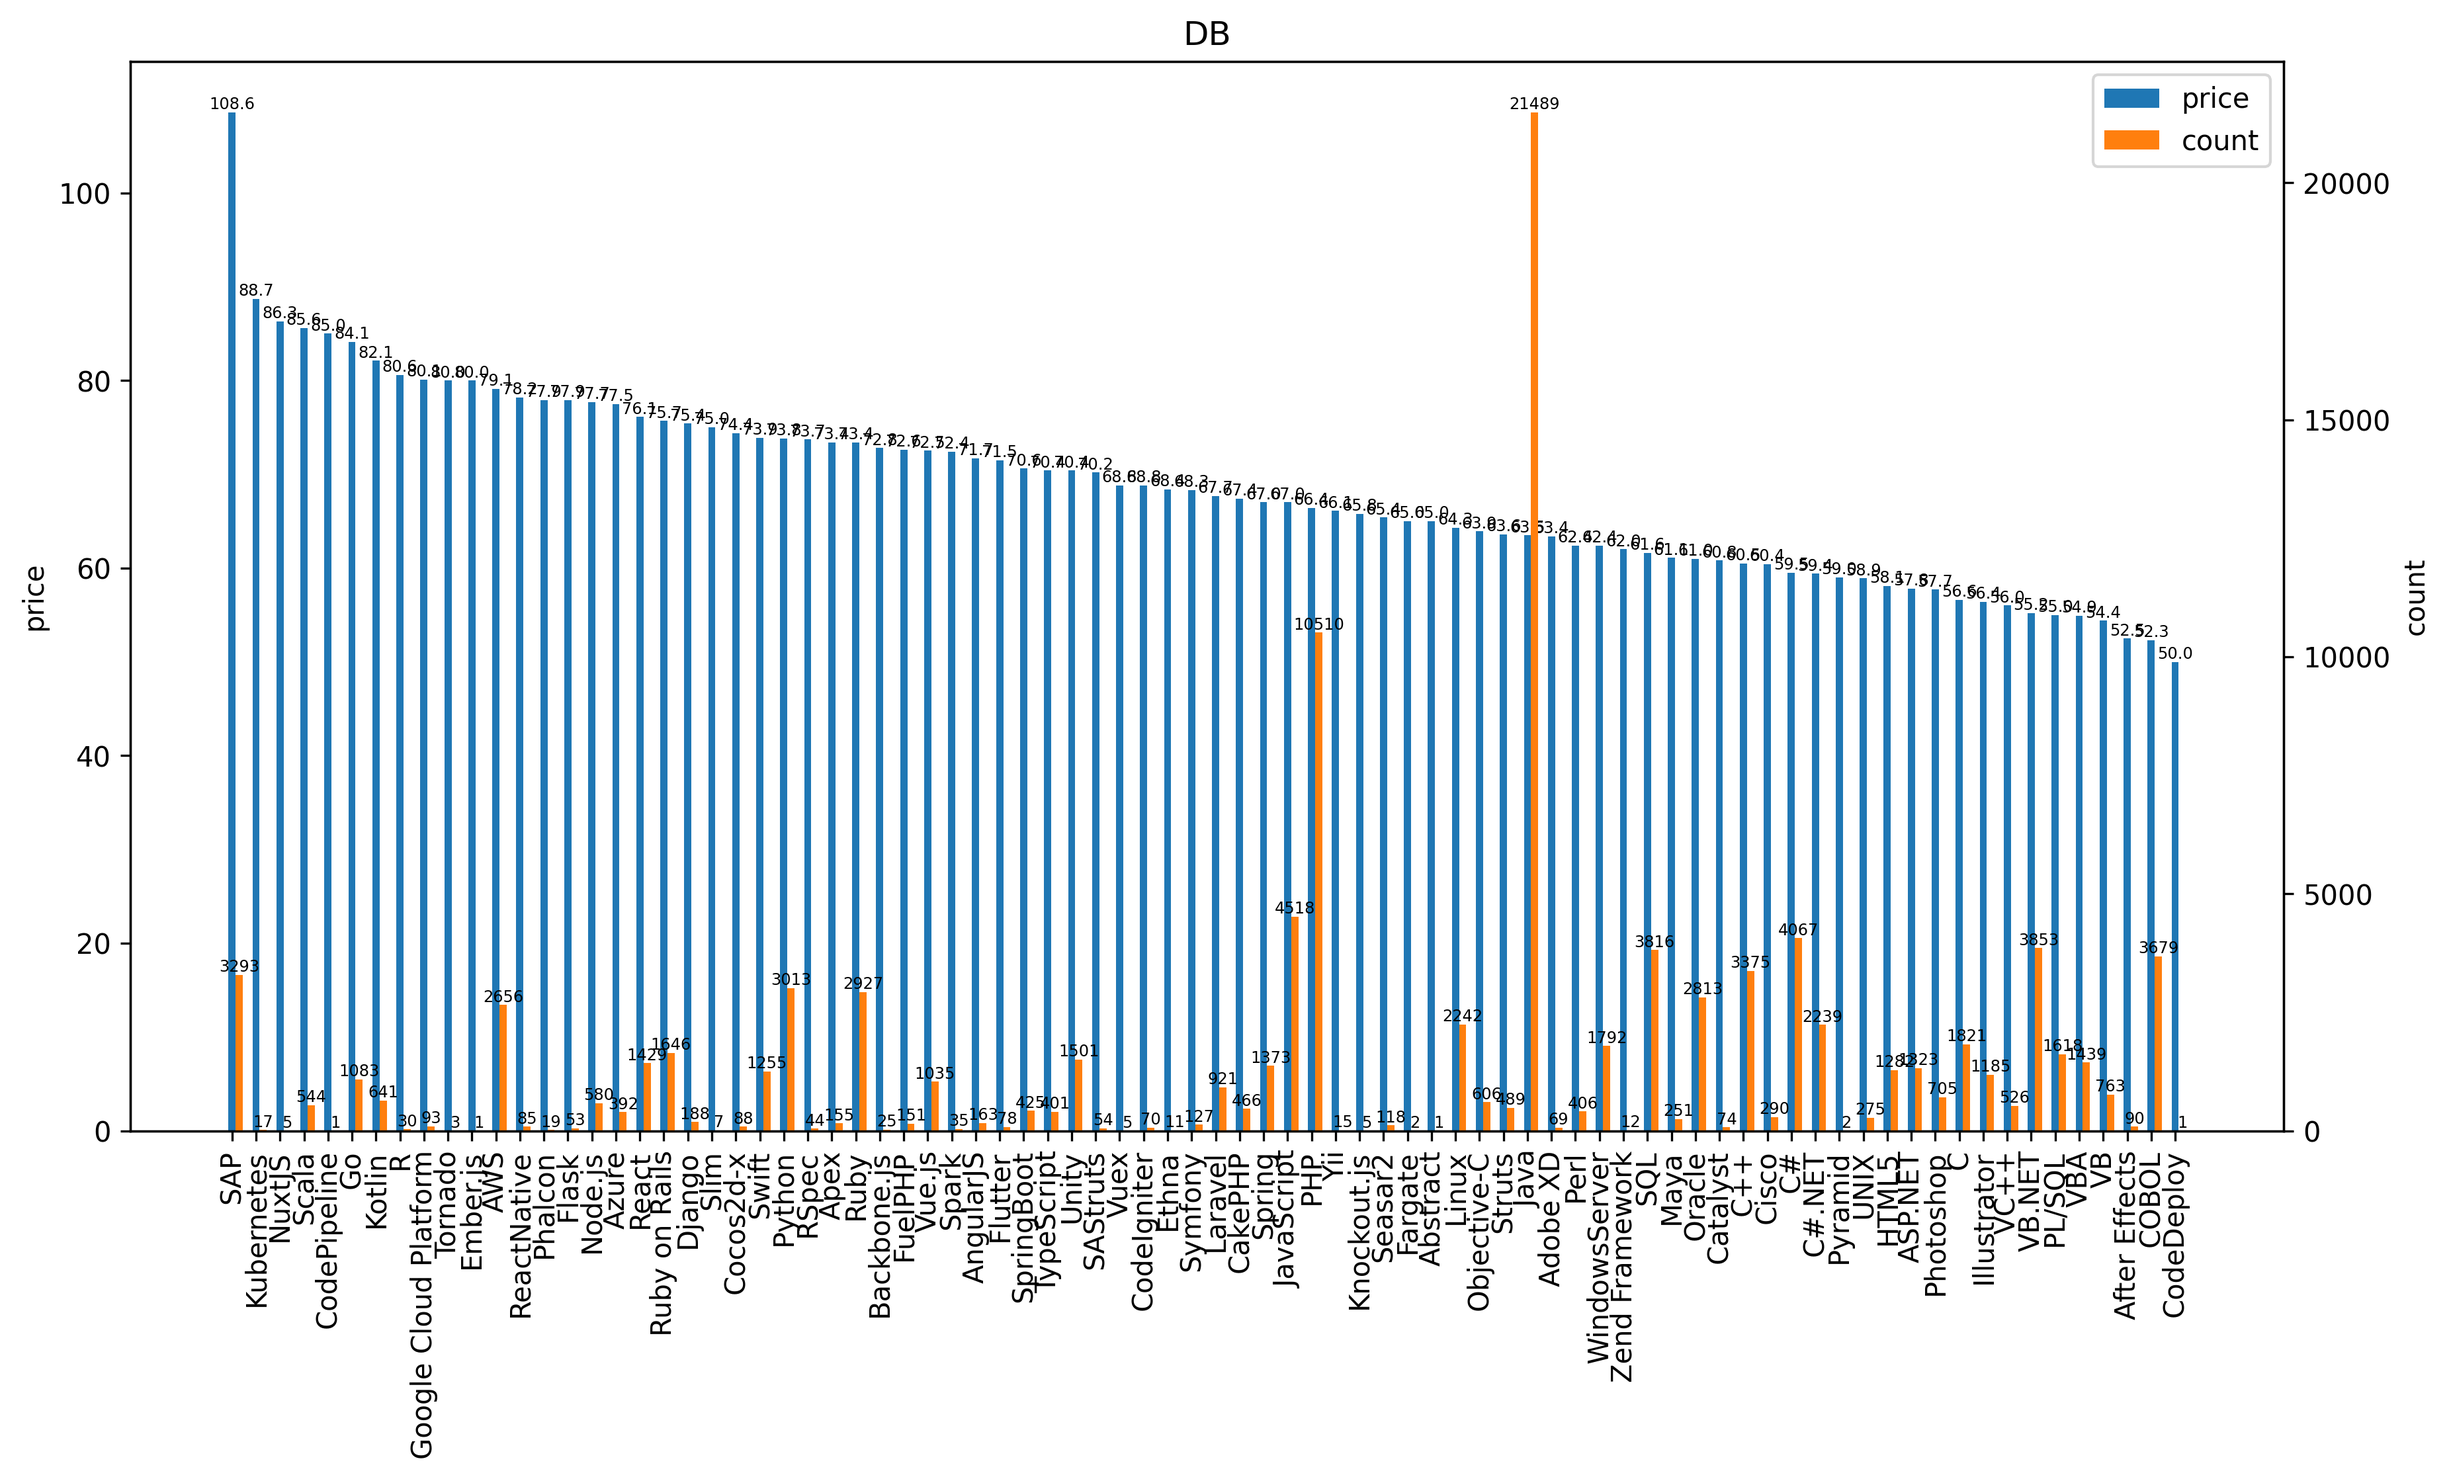
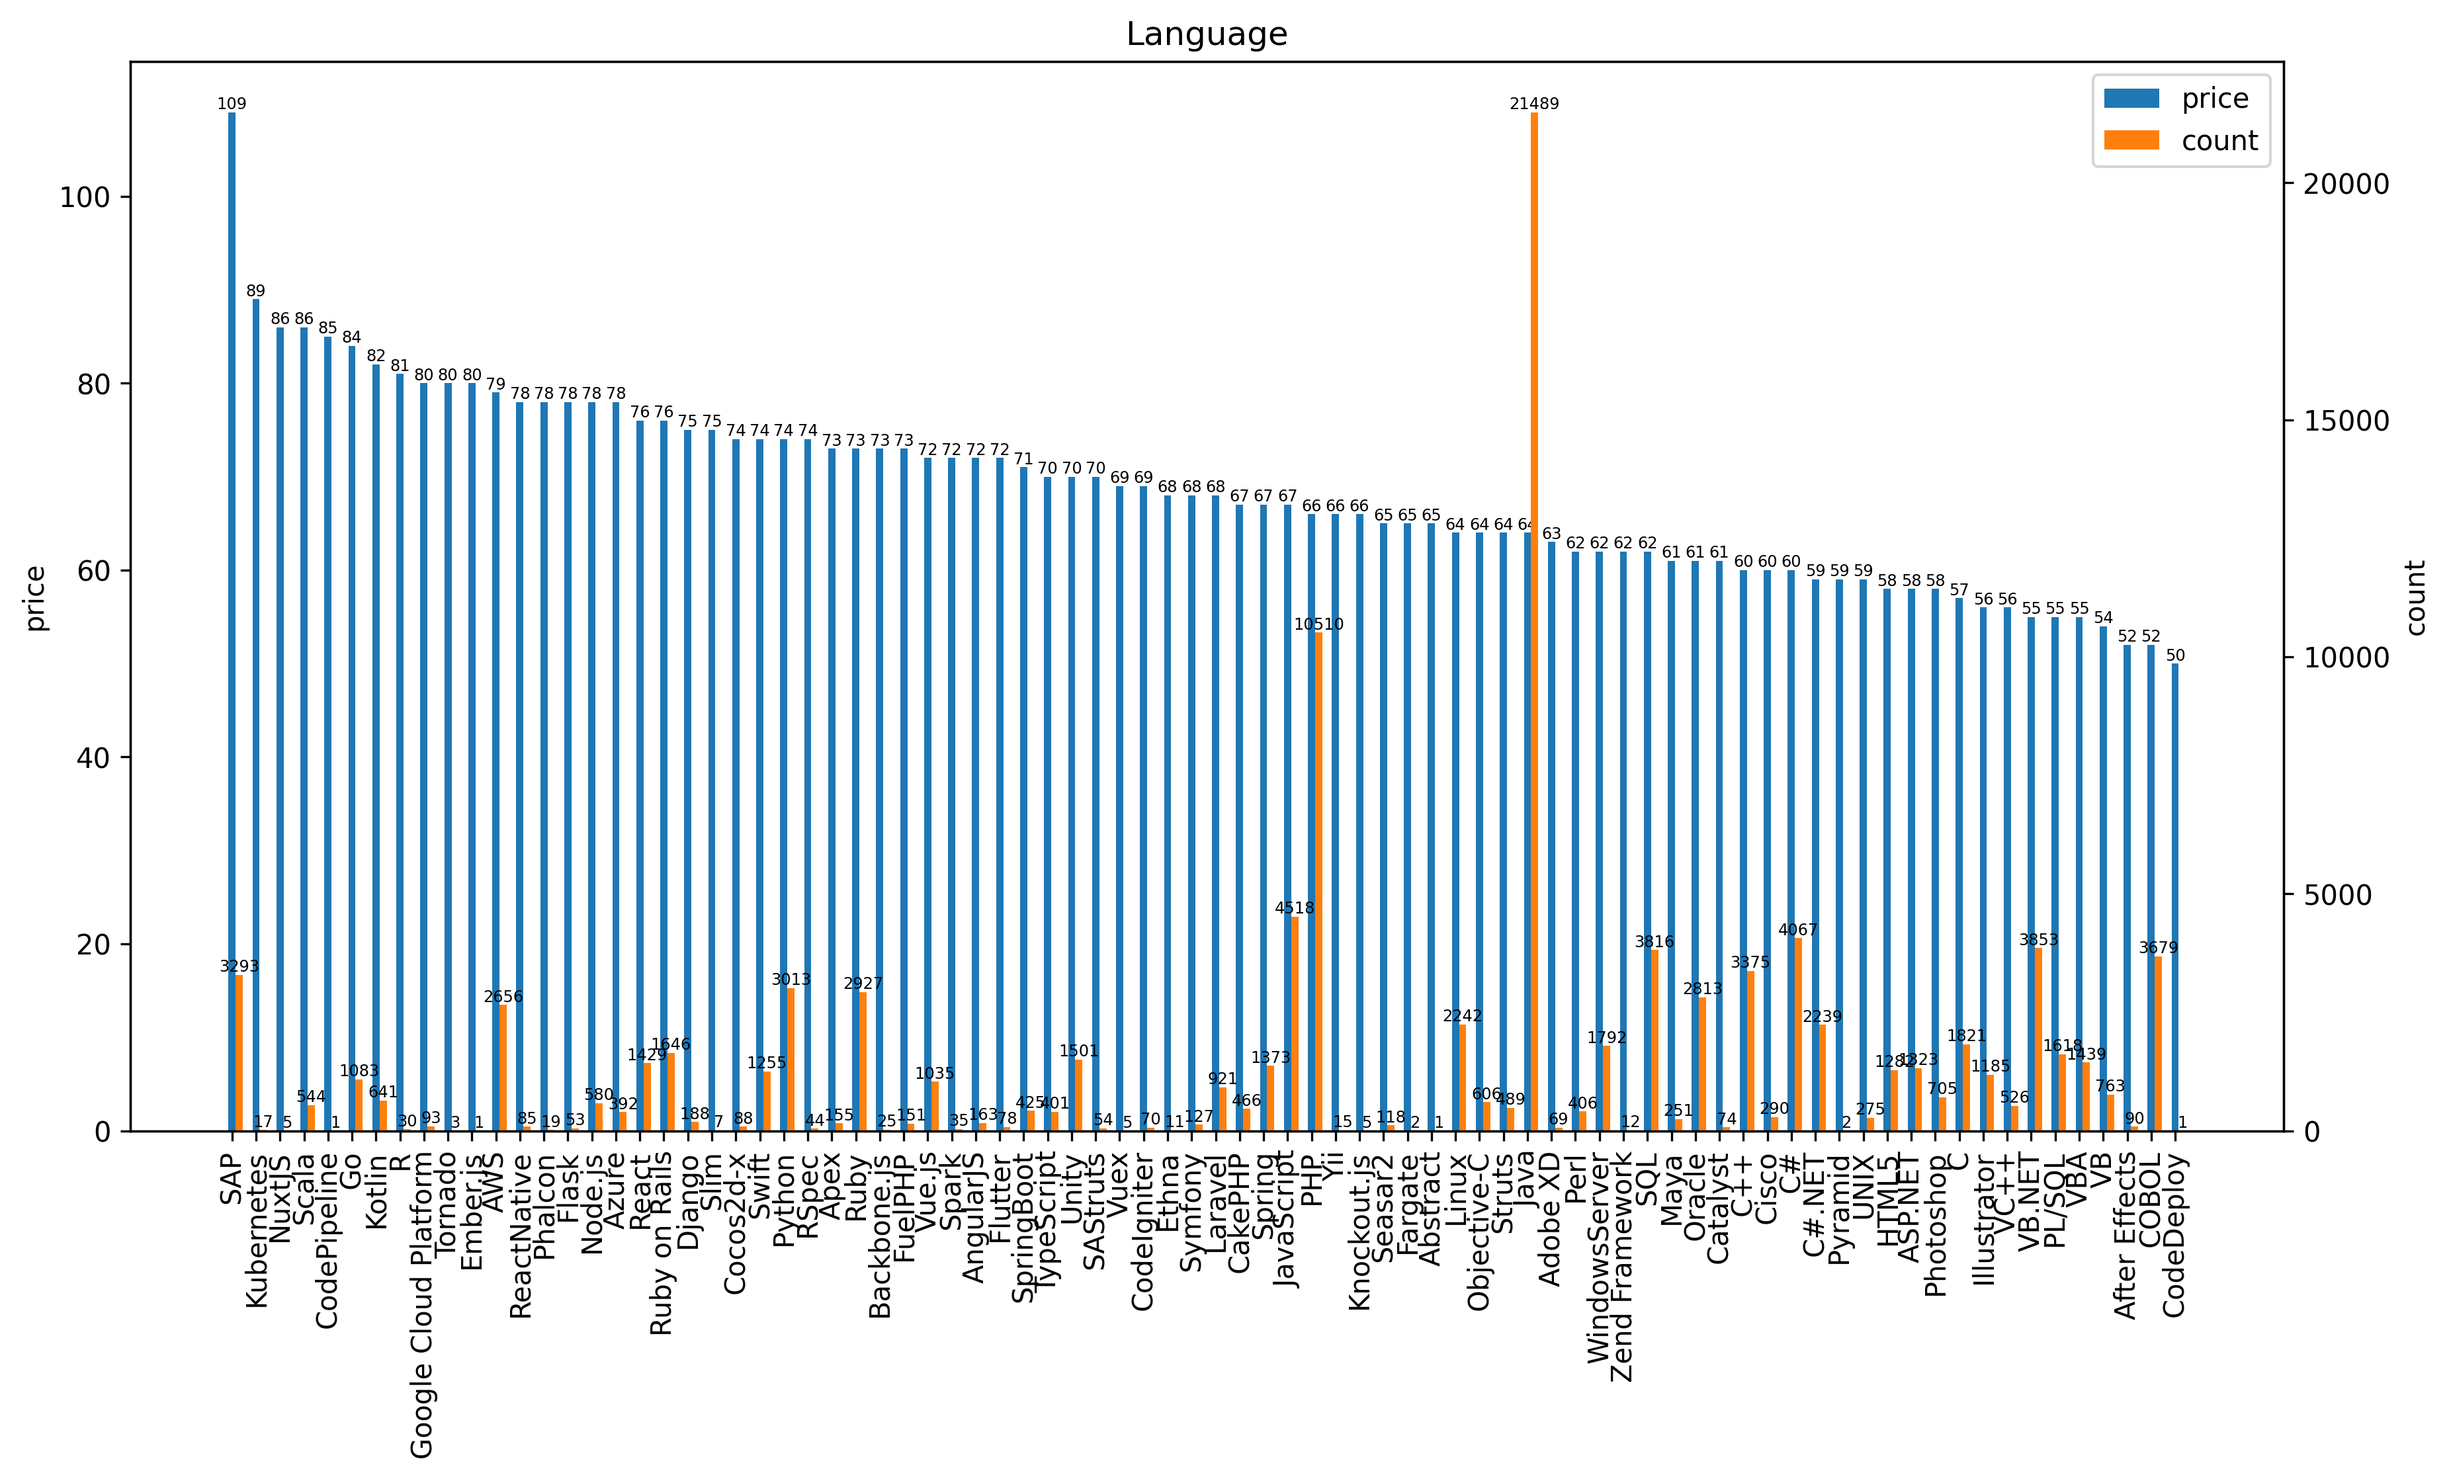
フリーランススタートの単価・案件数のグラフ追加。単価が小数点なので四捨五入に修正

diff --git a/app/print_graph.py b/app/print_graph.py
@@ -37,6 +37,7 @@ def main() -> None:
 """
 def price_graph(make_date: str) -> None:
 
+    """ レバテック """
     for category_key in CATEGORIES:
         df = pd.read_csv(DATA_PATH + '/levtech/' + category_key + '.csv')
         df = df.sort_values(by=['avg_price'], ascending=False)
@@ -60,12 +61,35 @@ def price_graph(make_date: str) -> None:
         # plt.show()
         fig.savefig(DATA_PATH + '/graphs/' + make_date + '/levtech-' + category_key + '-price.png', bbox_inches='tight', format='png', dpi=300)
 
+    """ フリーランススタート """
+    df = pd.read_csv(DATA_PATH + '/freelance-start.csv')
+    df = df.sort_values(by=['avg_price'], ascending=False)
+    labels = df['skill'].str.replace('[ぁ-んァ-ン一-龥]+', '', regex=True)  # 日本語削除
+    y_list1 = df['avg_price'].round().astype(int)
+
+    fig = plt.figure(figsize=(14, 7))
+
+    ax1 = fig.add_subplot(1, 1, 1)
+    ax1.bar(labels, y_list1, color='tab:blue')
+    ax1.set_ylabel('price')
+    ax1.set_title(category_key)
+
+    # X軸を縦書き表示
+    ax1.set_xticklabels(labels, rotation=90)
+
+    # 棒グラフに数値追記
+    for x, y in zip(labels, y_list1):
+        ax1.text(x, y, y, ha='center', va='bottom', fontsize='xx-small')
+
+    # plt.show()
+    fig.savefig(DATA_PATH + '/graphs/' + make_date + '/freelance-start-price.png', bbox_inches='tight', format='png', dpi=300)
 
 """
  案件数グラフ作成
 """
 def count_graph(make_date: str) -> None:
 
+    """ レバテック """
     for category_key in CATEGORIES:
         df = pd.read_csv(DATA_PATH + '/levtech/' + category_key + '.csv')
         df = df.sort_values(by=['count'], ascending=False)
@@ -89,13 +113,35 @@ def count_graph(make_date: str) -> None:
         # plt.show()
         fig.savefig(DATA_PATH + '/graphs/' + make_date + '/levtech-' + category_key + '-count.png', bbox_inches='tight', format='png', dpi=300)
 
+    """ フリーランススタート """
+    df = pd.read_csv(DATA_PATH + '/freelance-start.csv')
+    df = df.sort_values(by=['count'], ascending=False)
+    labels = df['skill'].str.replace('[ぁ-んァ-ン一-龥]+', '', regex=True)  # 日本語削除
+    y_list1 = df['count']
+
+    fig = plt.figure(figsize=(14, 7))
+
+    ax1 = fig.add_subplot(1, 1, 1)
+    ax1.bar(labels, y_list1, color='tab:orange')
+    ax1.set_ylabel('count')
+    ax1.set_title(category_key)
+
+    # X軸を縦書き表示
+    ax1.set_xticklabels(labels, rotation=90)
+
+    # 棒グラフに数値追記
+    for x, y in zip(labels, y_list1):
+        ax1.text(x, y, y, ha='center', va='bottom', fontsize='xx-small')
+
+    # plt.show()
+    fig.savefig(DATA_PATH + '/graphs/' + make_date + '/freelance-start-count.png', bbox_inches='tight', format='png', dpi=300)
 
 """
  単価＆案件数グラフ作成
 """
 def mix_graph(make_date: str) -> None:
 
-    # レバテック
+    """ レバテック """
     for category_key in CATEGORIES:
         df = pd.read_csv(DATA_PATH + '/levtech/' + category_key + '.csv')
         df = df.sort_values(by=['avg_price'], ascending=False)
@@ -136,45 +182,45 @@ def mix_graph(make_date: str) -> None:
         # plt.show()
         fig.savefig(DATA_PATH + '/graphs/' + make_date + '/levtech-' + category_key + '-mix.png', bbox_inches='tight', format='png', dpi=300)
 
-        # フリーランススタート
-        df = pd.read_csv(DATA_PATH + '/freelance-start.csv')
-        df = df.sort_values(by=['avg_price'], ascending=False)
+    """ フリーランススタート """
+    df = pd.read_csv(DATA_PATH + '/freelance-start.csv')
+    df = df.sort_values(by=['avg_price'], ascending=False)
 
-        labels = df['skill'].str.replace('[ぁ-んァ-ン一-龥]+', '', regex=True)  # 日本語削除
-        y_list1 = df['avg_price']
-        y_list2 = df['count']
+    labels = df['skill'].str.replace('[ぁ-んァ-ン一-龥]+', '', regex=True)  # 日本語削除
+    y_list1 = df['avg_price'].round().astype(int)
+    y_list2 = df['count']
 
-        fig = plt.figure(figsize=(14, 7))
+    fig = plt.figure(figsize=(14, 7))
 
-        left = np.arange(len(labels))
-        width = 0.3
+    left = np.arange(len(labels))
+    width = 0.3
 
-        ax1 = fig.add_subplot(1, 1, 1)
-        ax1.bar(labels, y_list1, width=width, color='tab:blue', label='price')
-        ax1.set_ylabel('price')
-        ax1.set_title(category_key)
+    ax1 = fig.add_subplot(1, 1, 1)
+    ax1.bar(labels, y_list1, width=width, color='tab:blue', label='price')
+    ax1.set_ylabel('price')
+    ax1.set_title(category_key)
 
-        ax2 = ax1.twinx()
-        ax2.bar(left + width, y_list2, width=width, color='tab:orange', label='count')
-        ax2.set_ylabel('count')
+    ax2 = ax1.twinx()
+    ax2.bar(left + width, y_list2, width=width, color='tab:orange', label='count')
+    ax2.set_ylabel('count')
 
-        # X軸を縦書き表示
-        ax1.set_xticklabels(labels, rotation=90)
+    # X軸を縦書き表示
+    ax1.set_xticklabels(labels, rotation=90)
 
-        # 棒グラフに数値追記
-        for x, y in zip(labels, y_list1):
-            ax1.text(x, y, y, ha='center', va='bottom', fontsize='xx-small')
+    # 棒グラフに数値追記
+    for x, y in zip(labels, y_list1):
+        ax1.text(x, y, y, ha='center', va='bottom', fontsize='xx-small')
 
-        for x, y in zip(left + width, y_list2):
-            ax2.text(x, y, y, ha='center', va='bottom', fontsize='xx-small')
+    for x, y in zip(left + width, y_list2):
+        ax2.text(x, y, y, ha='center', va='bottom', fontsize='xx-small')
 
-        # 凡例を出力
-        handler1, label1 = ax1.get_legend_handles_labels()
-        handler2, label2 = ax2.get_legend_handles_labels()
-        ax1.legend(handler1 + handler2, label1 + label2)
+    # 凡例を出力
+    handler1, label1 = ax1.get_legend_handles_labels()
+    handler2, label2 = ax2.get_legend_handles_labels()
+    ax1.legend(handler1 + handler2, label1 + label2)
 
-        # plt.show()
-        fig.savefig(DATA_PATH + '/graphs/' + make_date + '/freelance-start-mix.png', bbox_inches='tight', format='png', dpi=300)
+    # plt.show()
+    fig.savefig(DATA_PATH + '/graphs/' + make_date + '/freelance-start-mix.png', bbox_inches='tight', format='png', dpi=300)
 
 
 if __name__ == '__main__':
